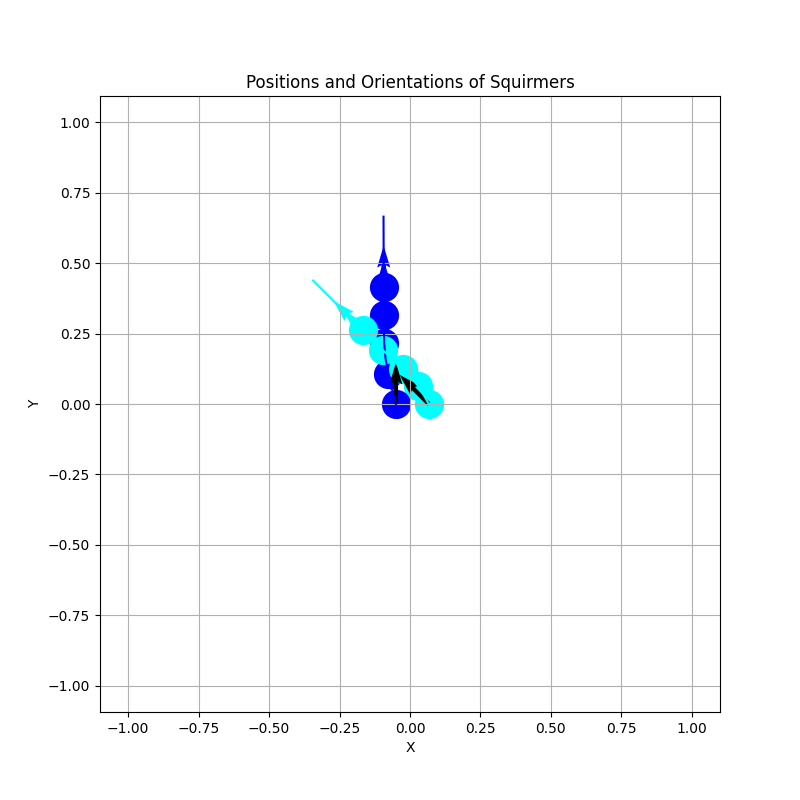
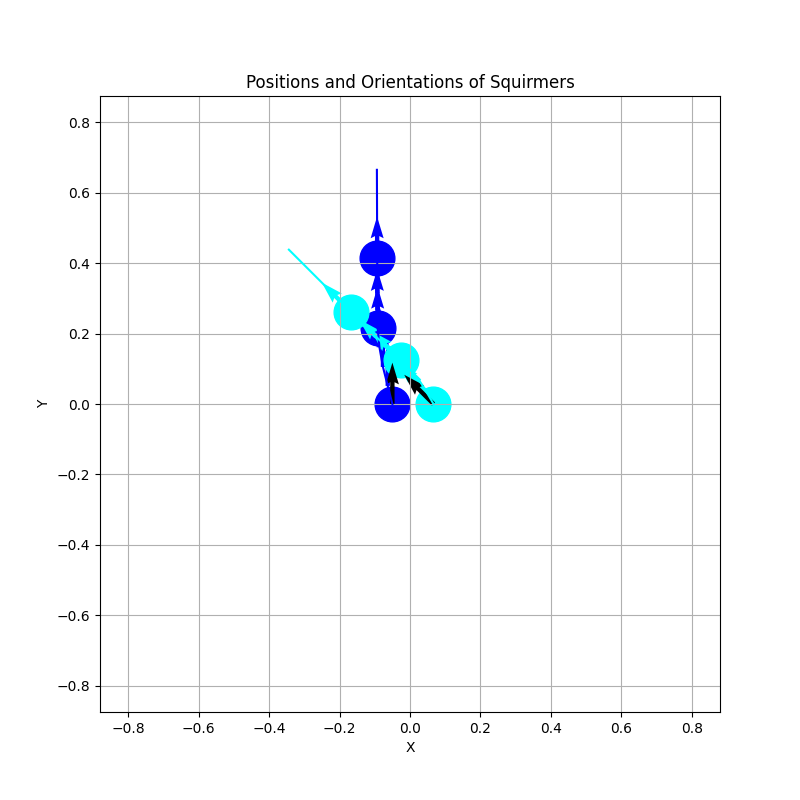
adapted simulation

diff --git a/Code/run.py b/Code/run.py
@@ -71,17 +71,20 @@ def main(simulation, N, filename):
         yseo = [0, 0]
         orient1 = np.pi/2
         orient2 = [(np.pi/2, "pi_2_"), (-np.pi/2, "mpi_2_"), (3*np.pi/4, "3pi_4_"), (-3*np.pi/4, "m3pi_4_"), (np.pi, "pi_"), (2*np.pi, "2pi_"), (np.pi/4, "pi_4_"), (-np.pi/4, "mpi_4_")]
-        for (betaeo, labelbeta) in betas:
-            for (Eos, labeleo) in Eo:
-                for (pi, labelpi) in orient2:
-                    filenameeo = labelpi + labeleo
-                    orientseo = [orient1, pi]
-                    if output_type == 'plot':
-                        direo = 'graphs/Eo_analysis/' + labelbeta + '/' + labelpi
-                        sim_interacting_squirmers(2, xseo, yseo, orientseo, a, betaeo, v0, R, dt, dt_out, T, Es, ds, mu, Eos, lnEps_cr, border, filenameeo, border_plot, dir=direo)
-                    else:
-                        direo = 'videos/Eo_analysis/' + labelbeta + '/' + labelpi
-                        sim_vid_interact_sq(2, xseo, yseo, orientseo, a, betaeo, v0, R, dt, dt_out, T, Es, ds, mu, Eos, lnEps_cr, border, filenameeo, dir=direo)
+        # for (betaeo, labelbeta) in betas:
+        for (Eos, labeleo) in Eo:
+            # for (pi, labelpi) in orient2:
+            #     filenameeo = labelpi + labeleo
+            #     orientseo = [orient1, pi]
+            filenameeo = orient2[2][1] + labeleo
+            print(filenameeo, Eos)
+            orienteo = [orient1, orient2[2][0]]
+            if output_type == 'plot':
+                direo = 'graphs/Eo_analysis/' + betas[0][1] + '/' + orient2[2][1]
+                sim_interacting_squirmers(2, xseo, yseo, orienteo, a, betas[0][0], v0, 0.8, dt, dt_out, T, Es, ds, mu, Eos, lnEps_cr, border, filenameeo, border_plot, dir=direo)
+            else:
+                direo = 'videos/Eo_analysis/' + betas[0][1] + '/' + orient2[2][1]
+                sim_vid_interact_sq(2, xseo, yseo, orienteo, a, betas[0][0], v0, 0.8, dt, dt_out, T, Es, ds, mu, Eos, lnEps_cr, border, filenameeo, dir=direo)
 
 
 if __name__ == "__main__":

diff --git a/Code/plot.py b/Code/plot.py
@@ -92,15 +92,16 @@ def plot_sim_nsquirmers(histories, R, N, a, border, filename, dir='graphs'):
     for i in range(N):
         plt.plot(squirmer_xs[i], squirmer_ys[i], color=colors[i])
         last_orient = squirmer_orients[i][0]
-        plot_circle = False
+        plot_circle = 0
         for j in range(len(squirmer_orients[i])):
             new_orient = squirmer_orients[i][j]
             if new_orient != last_orient:
                 plt.quiver(squirmer_xs[i][j], squirmer_ys[i][j], np.cos(new_orient), np.sin(new_orient), color=colors[i], scale=scale_arrow, width=w)
                 last_orient = new_orient
-                if plot_circle == True:
+                plot_circle += 1
+                if plot_circle == 4:
                     plt.scatter(squirmer_xs[i][j], squirmer_ys[i][j], color=colors[i], s=s)
-                plot_circle = not plot_circle
+                    plot_circle = 0
 
     #Plot initial orientations
     xs = histories[0][0]
